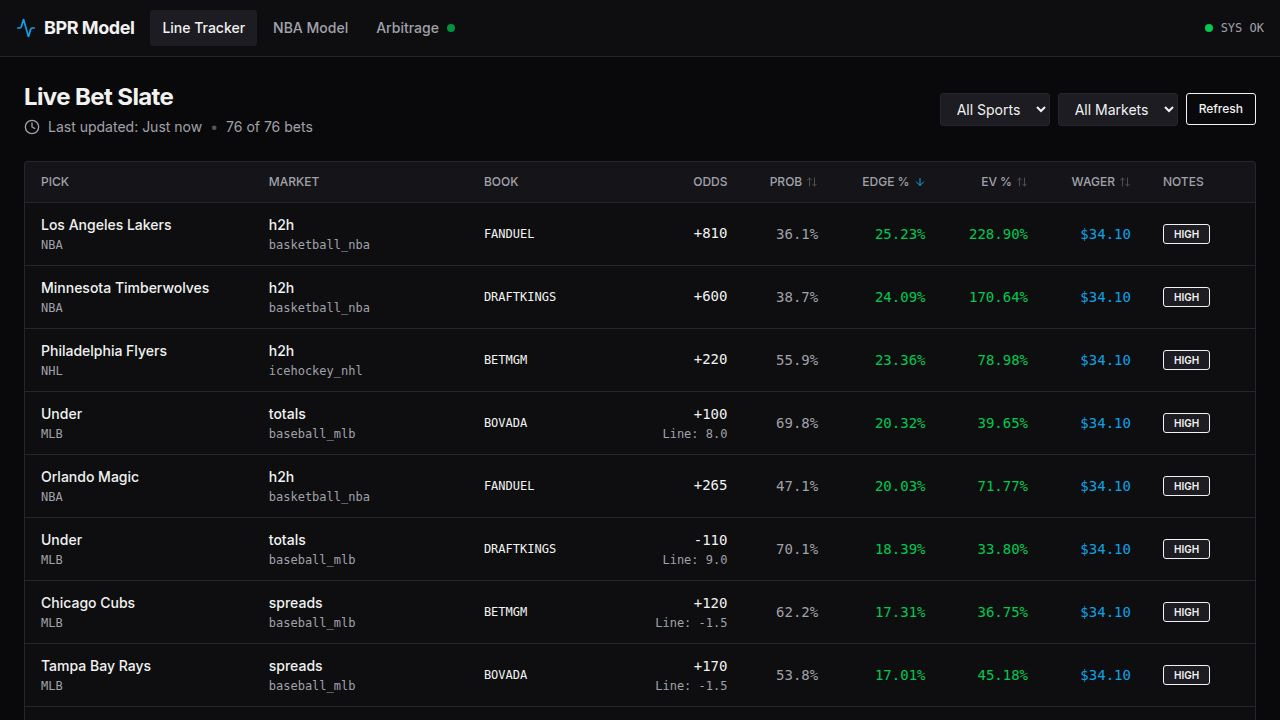
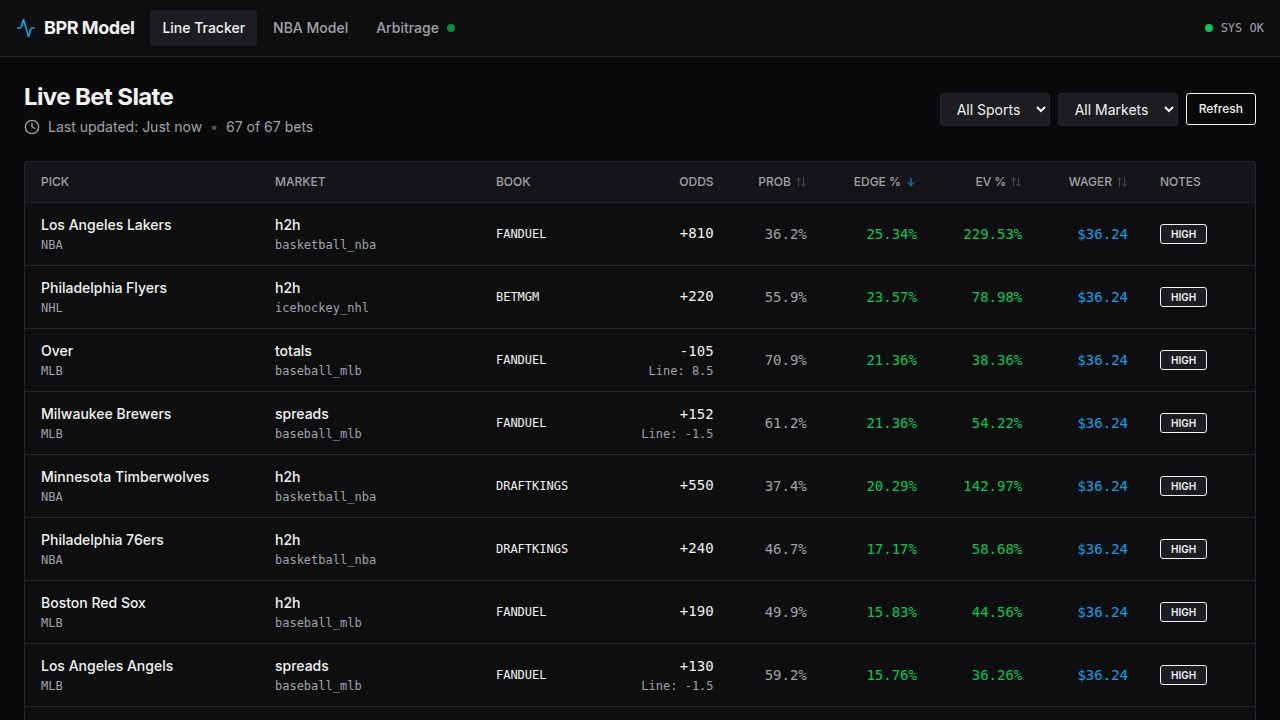
fix: add vercel.json, API functions, fix vite.config for Vercel deployment

diff --git a/artifacts/dashboard/vite.config.ts b/artifacts/dashboard/vite.config.ts
@@ -2,47 +2,32 @@ import { defineConfig } from "vite";
 import react from "@vitejs/plugin-react";
 import tailwindcss from "@tailwindcss/vite";
 import path from "path";
-import runtimeErrorOverlay from "@replit/vite-plugin-runtime-error-modal";
 
-const rawPort = process.env.PORT;
-
-if (!rawPort) {
-  throw new Error(
-    "PORT environment variable is required but was not provided.",
-  );
-}
-
-const port = Number(rawPort);
-
-if (Number.isNaN(port) || port <= 0) {
-  throw new Error(`Invalid PORT value: "${rawPort}"`);
-}
-
-const basePath = process.env.BASE_PATH;
-
-if (!basePath) {
-  throw new Error(
-    "BASE_PATH environment variable is required but was not provided.",
-  );
-}
+const port = Number(process.env.PORT ?? "3000");
+const basePath = process.env.BASE_PATH ?? "/";
 
 export default defineConfig({
   base: basePath,
   plugins: [
     react(),
     tailwindcss(),
-    runtimeErrorOverlay(),
-    ...(process.env.NODE_ENV !== "production" &&
-    process.env.REPL_ID !== undefined
+    ...(process.env.REPL_ID !== undefined
       ? [
-          await import("@replit/vite-plugin-cartographer").then((m) =>
-            m.cartographer({
-              root: path.resolve(import.meta.dirname, ".."),
-            }),
+          await import("@replit/vite-plugin-runtime-error-modal").then((m) =>
+            m.default(),
           ),
-          await import("@replit/vite-plugin-dev-banner").then((m) =>
-            m.devBanner(),
-          ),
+          ...(process.env.NODE_ENV !== "production"
+            ? [
+                await import("@replit/vite-plugin-cartographer").then((m) =>
+                  m.cartographer({
+                    root: path.resolve(import.meta.dirname, ".."),
+                  }),
+                ),
+                await import("@replit/vite-plugin-dev-banner").then((m) =>
+                  m.devBanner(),
+                ),
+              ]
+            : []),
         ]
       : []),
   ],